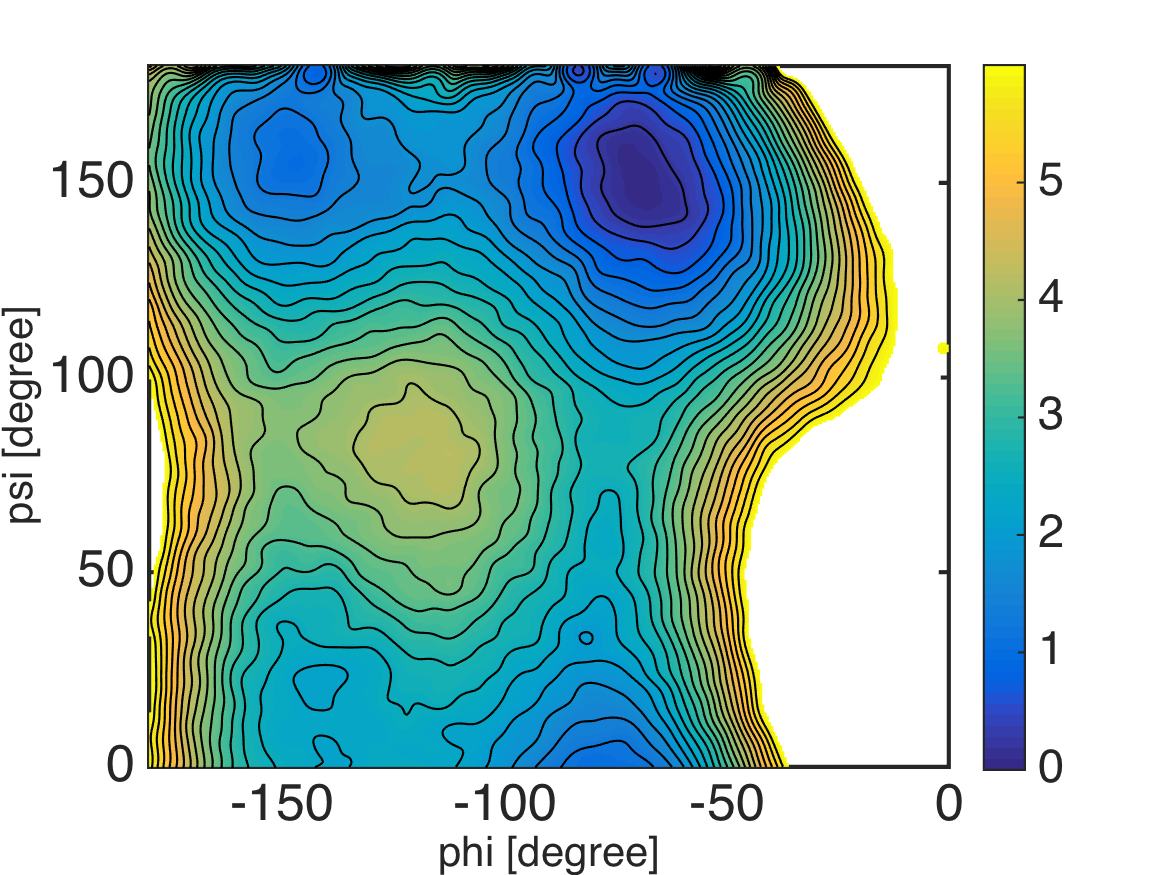
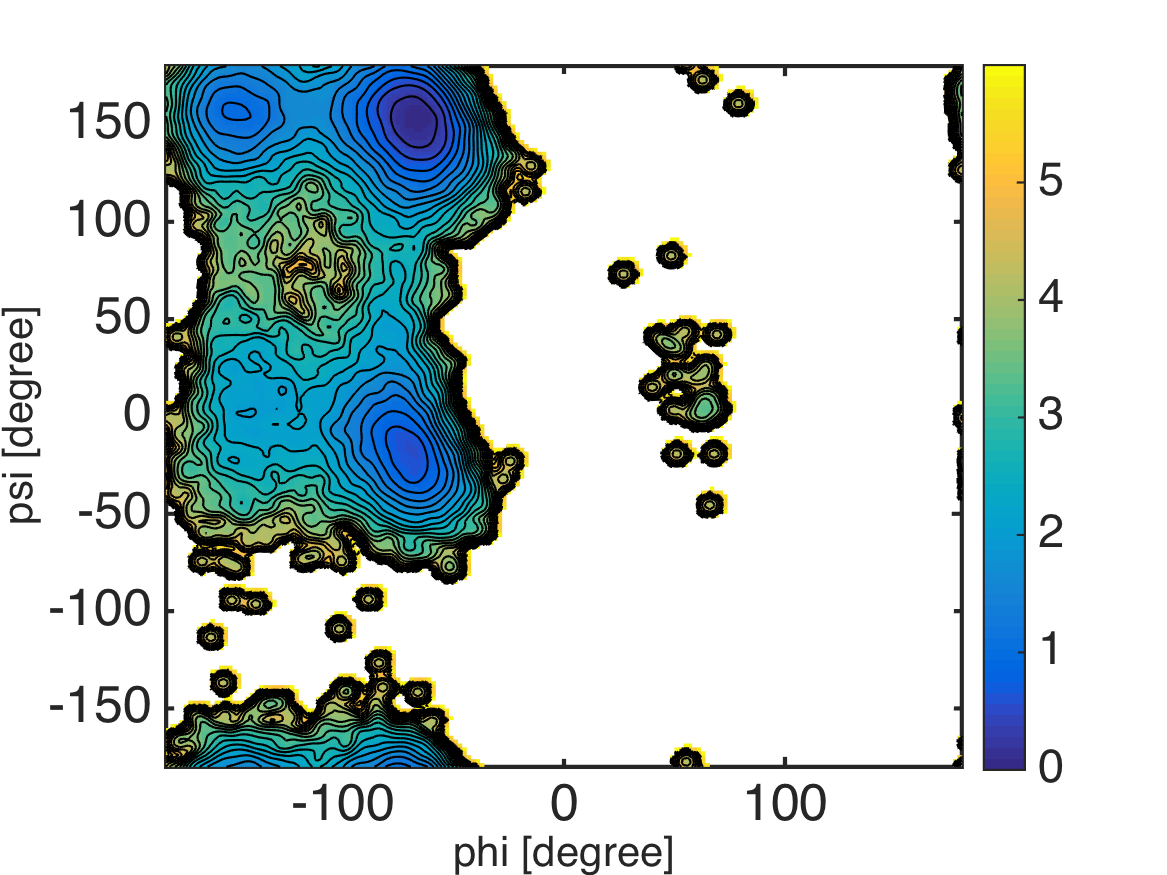
kernel density with weight

diff --git a/alad_ksdensity.rst b/alad_ksdensity.rst
@@ -45,11 +45,12 @@ estimation (``kde2d.m``), and the PMF is defined as minus log of the PDF:
   exportas('scatter');
   
   %% calculate PMF and visualize the surface
-  nbin = 512; % the number of grids
-  [pmf, xi, yi] = calcpmf2d([phi psi], nbin); % calcpmf2d() calls kde2d()
-  s   = getconstants();  % get Boltzmann constant in kcal/mol/K
-  T   = 300.0;           % set temperature
-  pmf = s.KB*T*pmf;        % convert unit from KBT to kcal/mol
+  xi = -180:2:180; % grids in x-axis
+  yi = -180:2:180; % grids in y-axis
+  pmf = calcpmf2d([phi psi], xi, yi, [3.0 3.0], [360 360]);
+  s   = getconstants(); % get Boltzmann constant in kcal/mol/K
+  T   = 300.0;          % set temperature
+  pmf = s.KB*T*pmf;     % convert unit from KBT to kcal/mol
   
   %% visualization
   landscape(xi, yi, pmf, 0:0.25:6);

diff --git a/alad_2D_umbrella_mbar.rst b/alad_2D_umbrella_mbar.rst
@@ -139,8 +139,7 @@ This example is located in ``example/umbrella_alad/mbar/``.
   % evaluate PMF by using a kernel density estimator
   center_phi = -180:0.5:0;
   center_psi = 0:0.5:180;
-  prob = ksdensity2d(data, center_phi, center_psi, weight, [2.5 2.5]); % time-consuming part
-  pmf = -log(prob);
+  pmf = calcpmf2d(data, center_phi, center_psi, [3.0 3.0], [360 360], weight);
   pmf = KBT*pmf; % convert unit from KBT to kcal/mol
   
   %% visualization
@@ -153,5 +152,4 @@ This example is located in ``example/umbrella_alad/mbar/``.
    :width: 70 %
    :alt: pmf
    :align: center
-
 
